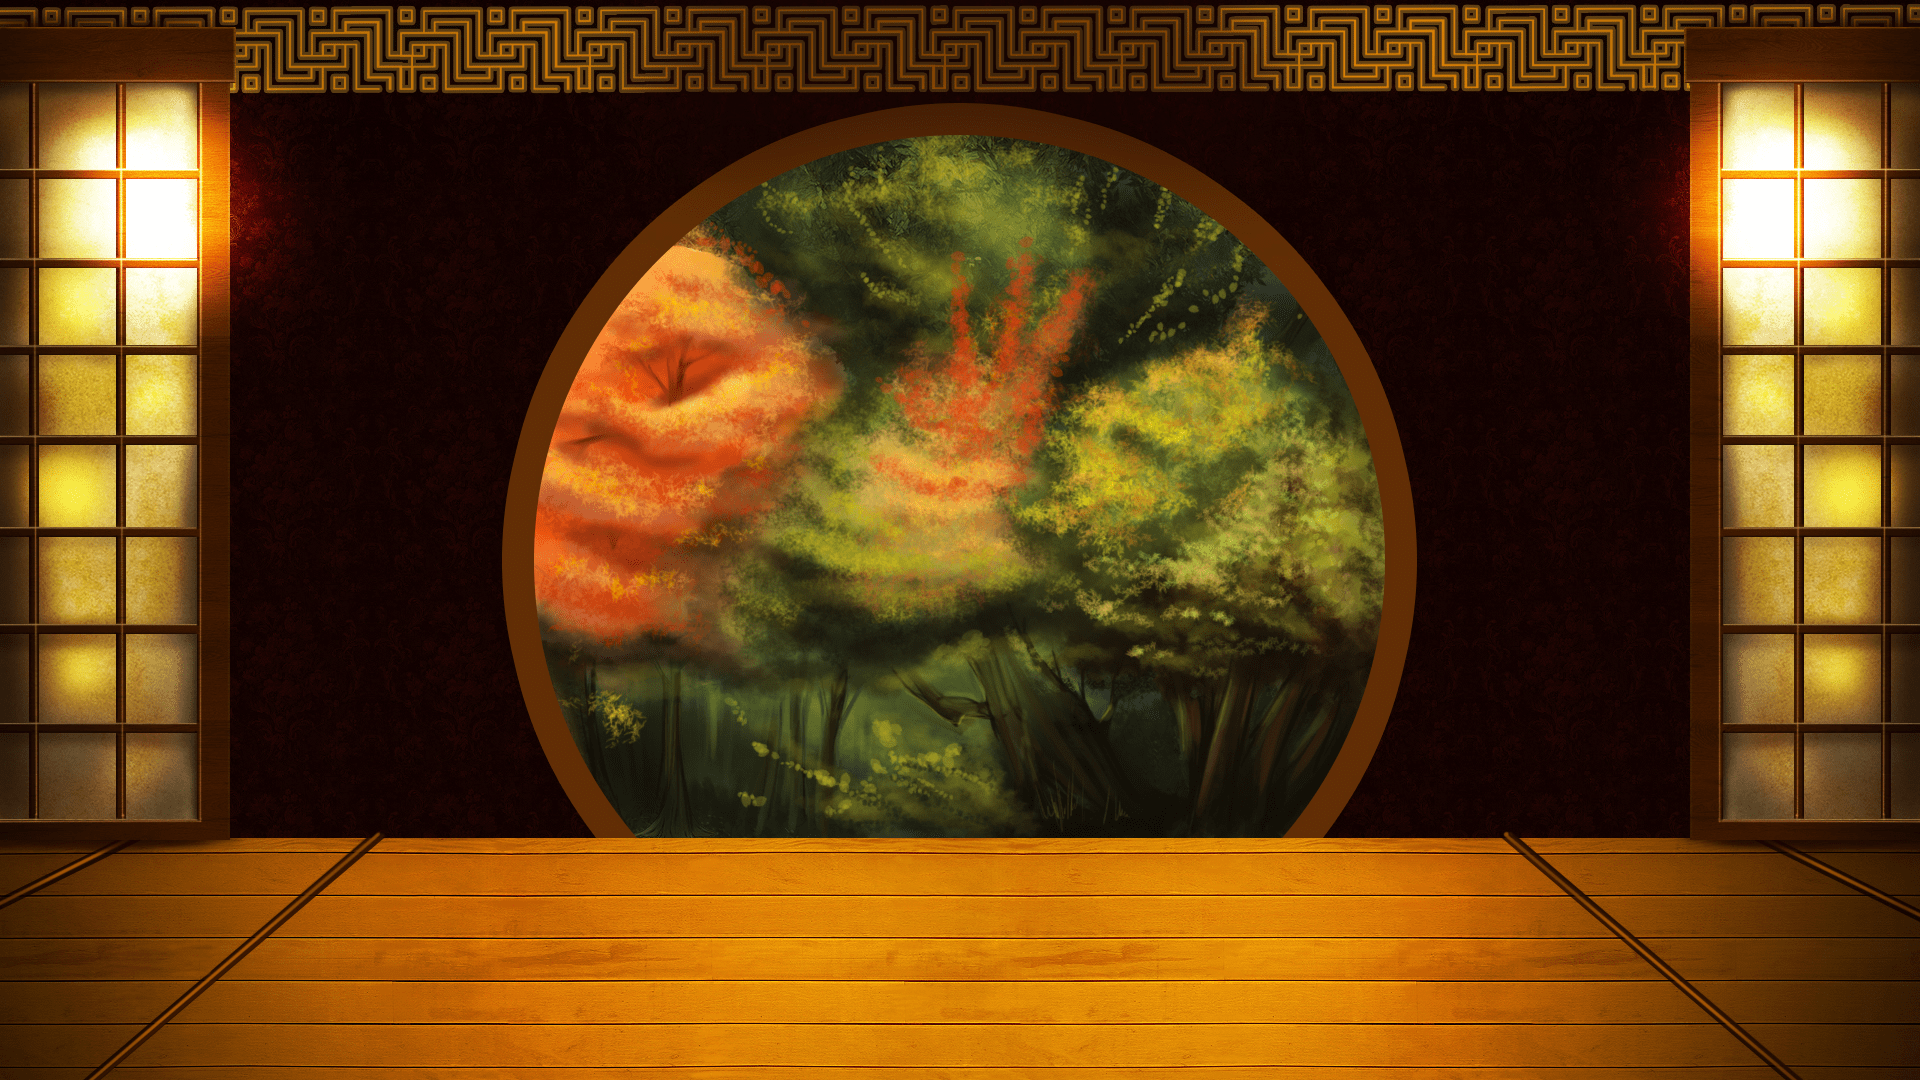
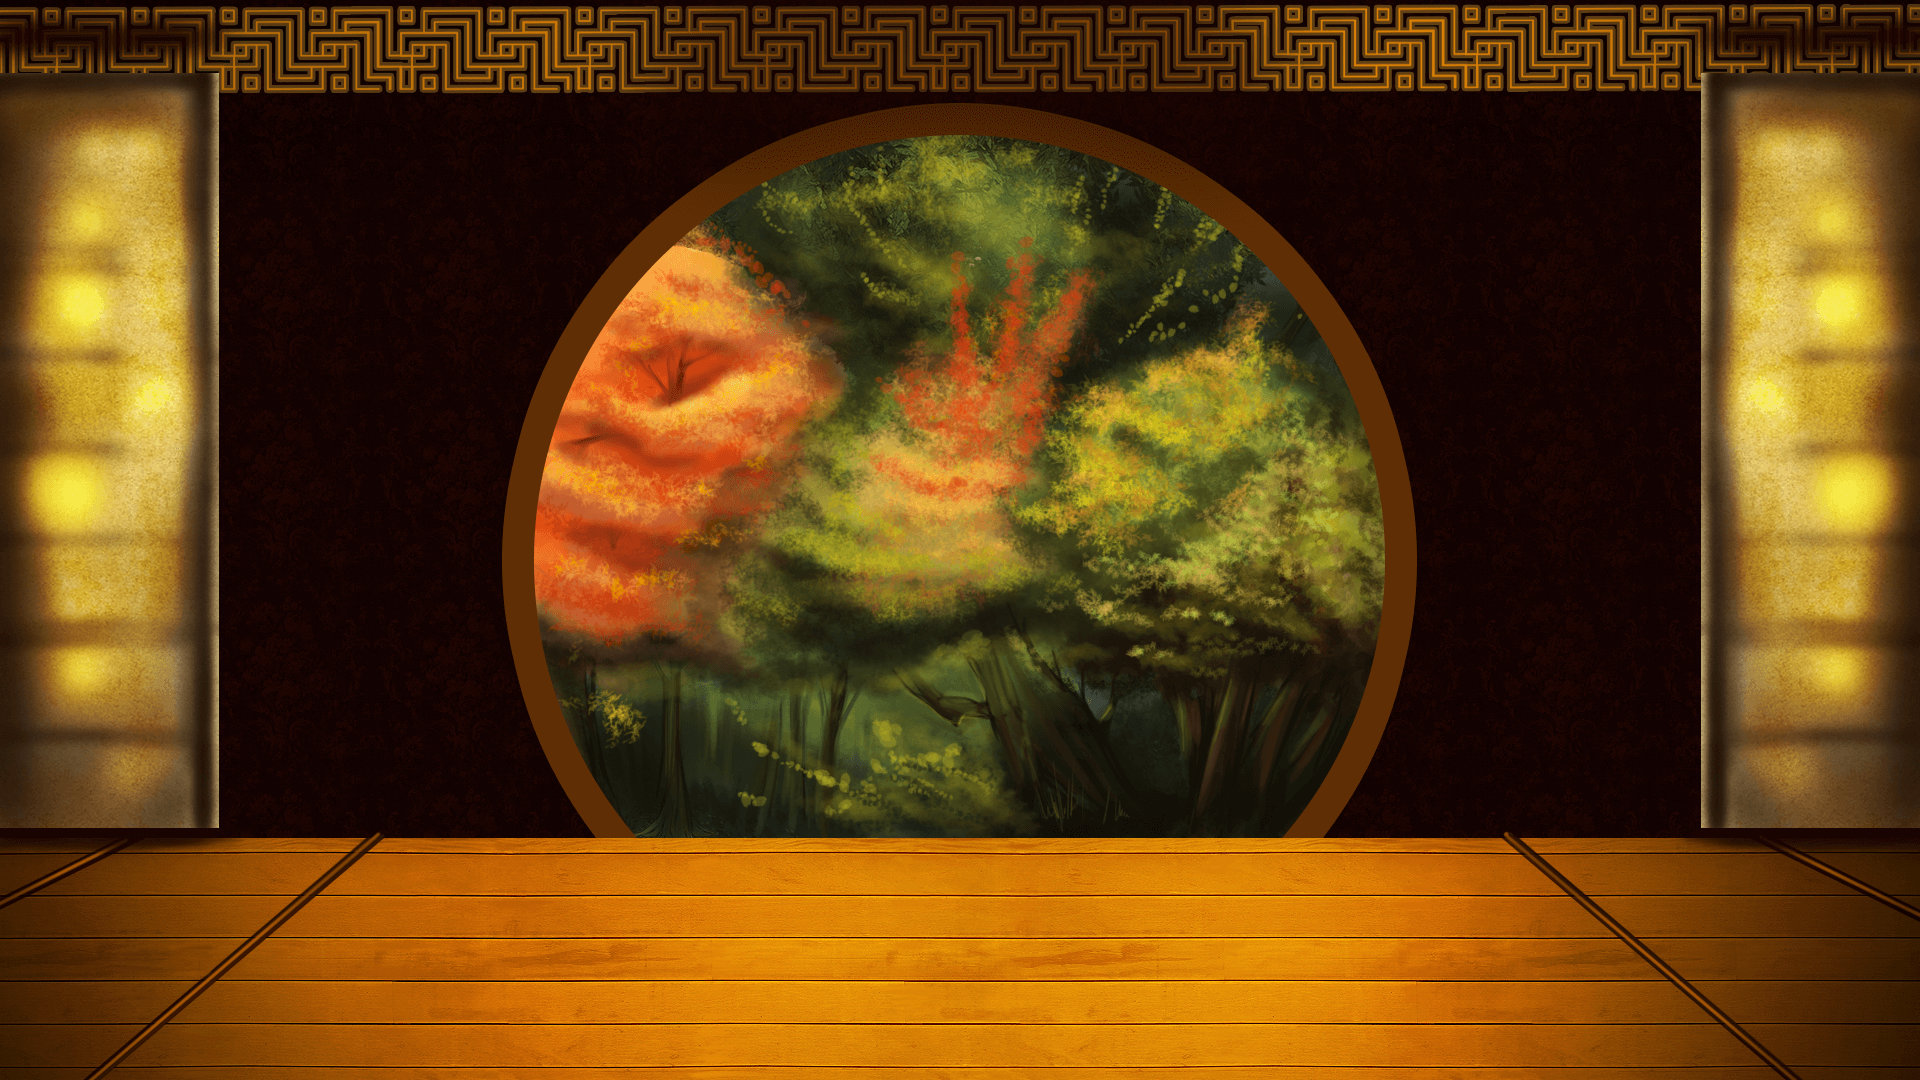
Add shadows

Changed region(s): [[0.8438, 0.0306, 1.0, 0.7944], [0.0, 0.0, 0.1562, 0.7944], [0.2812, 0.4278, 0.3125, 0.4583]]

diff --git a/markup/modules/States/FS/FSView.js b/markup/modules/States/FS/FSView.js
@@ -33,6 +33,42 @@ export let view = (() => {
             let mainBG = game.add.sprite(0, 0, 'fsBG', null, container);
             model.el('mainBG', mainBG);
 
+            let shadows = game.add.spine(game.world.centerX, game.world.centerY, 'shadows');
+            container.add(shadows);
+            model.el('shadows', shadows);
+
+            if (model.desktop) {
+                let doorRight = game.add.sprite(game.width * 0.94, 545, 'doorRight', null, container);
+                let doorLeft = game.add.sprite(110, 545, 'doorLeft', null, container);
+                doorRight.anchor.set(0.5);
+                doorLeft.anchor.set(0.5);
+            }
+
+        },
+
+        addShadows: function ({
+            game = model.el('game'),
+            container = model.group('bg')
+        }) {
+
+            let shadows = model.el('shadows');
+            shadows.visible = true;
+
+            let side = (game.rnd.integerInRange(0, 1)) ? 'left' : 'right';
+            if (side == 'right') {
+                shadows.scale.set(-1, 1);
+            }
+
+            let anim = game.rnd.integerInRange(1, 3);
+            shadows.setAnimationByName(1, anim, false);
+
+            game.time.events.add(8000, () => {
+                shadows.visible = false;
+                if (side == 'right') {
+                    shadows.scale.set(1, 1);
+                }
+                draw.addShadows({});
+            });
         },
 
         mainContainer: function ({

diff --git a/markup/modules/States/Preload/PreloadController.js b/markup/modules/States/Preload/PreloadController.js
@@ -63,10 +63,6 @@ export class Preload {
     loadMainAssets() {
         const game = model.el('game');
         game.load.image('mainBG', 'bg/mainBG.png');
-        //BG Anim
-        // game.load.image('cloud', 'bg/cloud.png');
-        // game.load.image('sun', 'bg/sun.png');
-
         game.load.image('gameMachine', 'game/gameMachine.png');
         game.load.image('gameBG', 'game/gameBG.png');
         game.load.image('gmRight', 'game/gmRight.png');
@@ -110,6 +106,8 @@ export class Preload {
     loadFSAssets() {
         const game = model.el('game');
         game.load.image('fsBG', 'bg/fsBG.png');
+        game.load.image('doorRight', 'bg/doorRight.png');
+        game.load.image('doorLeft', 'bg/doorLeft.png');
         game.load.image('transitionFS', 'fs/transitionFS.png');
         game.load.image('fsCountBG', 'fs/fsCountBG.png');
         game.load.atlasJSONArray('fsMulti', 'fs/fsMulti.png', 'fs/fsMulti.json');
@@ -125,6 +123,7 @@ export class Preload {
         game.load.spine('ninja', 'spine/Ninja.json');
         game.load.spine('samurai', 'spine/Samurai.json');
         game.load.spine('ronin', 'spine/Ronin.json');
+        game.load.spine('shadows', 'spine/shadows.json');
     }
 
     loadTest() {

diff --git a/markup/modules/Win/WinController.js b/markup/modules/Win/WinController.js
@@ -202,7 +202,7 @@ export let controller = (() => {
             // Убираем управление с клавиатуры
             game.input.keyboard.enabled = false;
             // Запускаем переходной экран
-            game.time.events.add(1500, () => {
+            game.time.events.add(800, () => {
                 transitionView.fsStart();
             });
         }

diff --git a/markup/modules/States/FS/FSController.js b/markup/modules/States/FS/FSController.js
@@ -151,6 +151,9 @@ export class FS {
         fsView.draw.mainBG({});
         // Отрисовуем основной контейнер
         fsView.draw.mainContainer({});
+        game.time.events.add(3000, () => {
+            fsView.draw.addShadows({});
+        });
         fsView.draw.machineContainer({});
         fsView.draw.lineNumbers({});
         winView.draw.UpWinContainer({});
